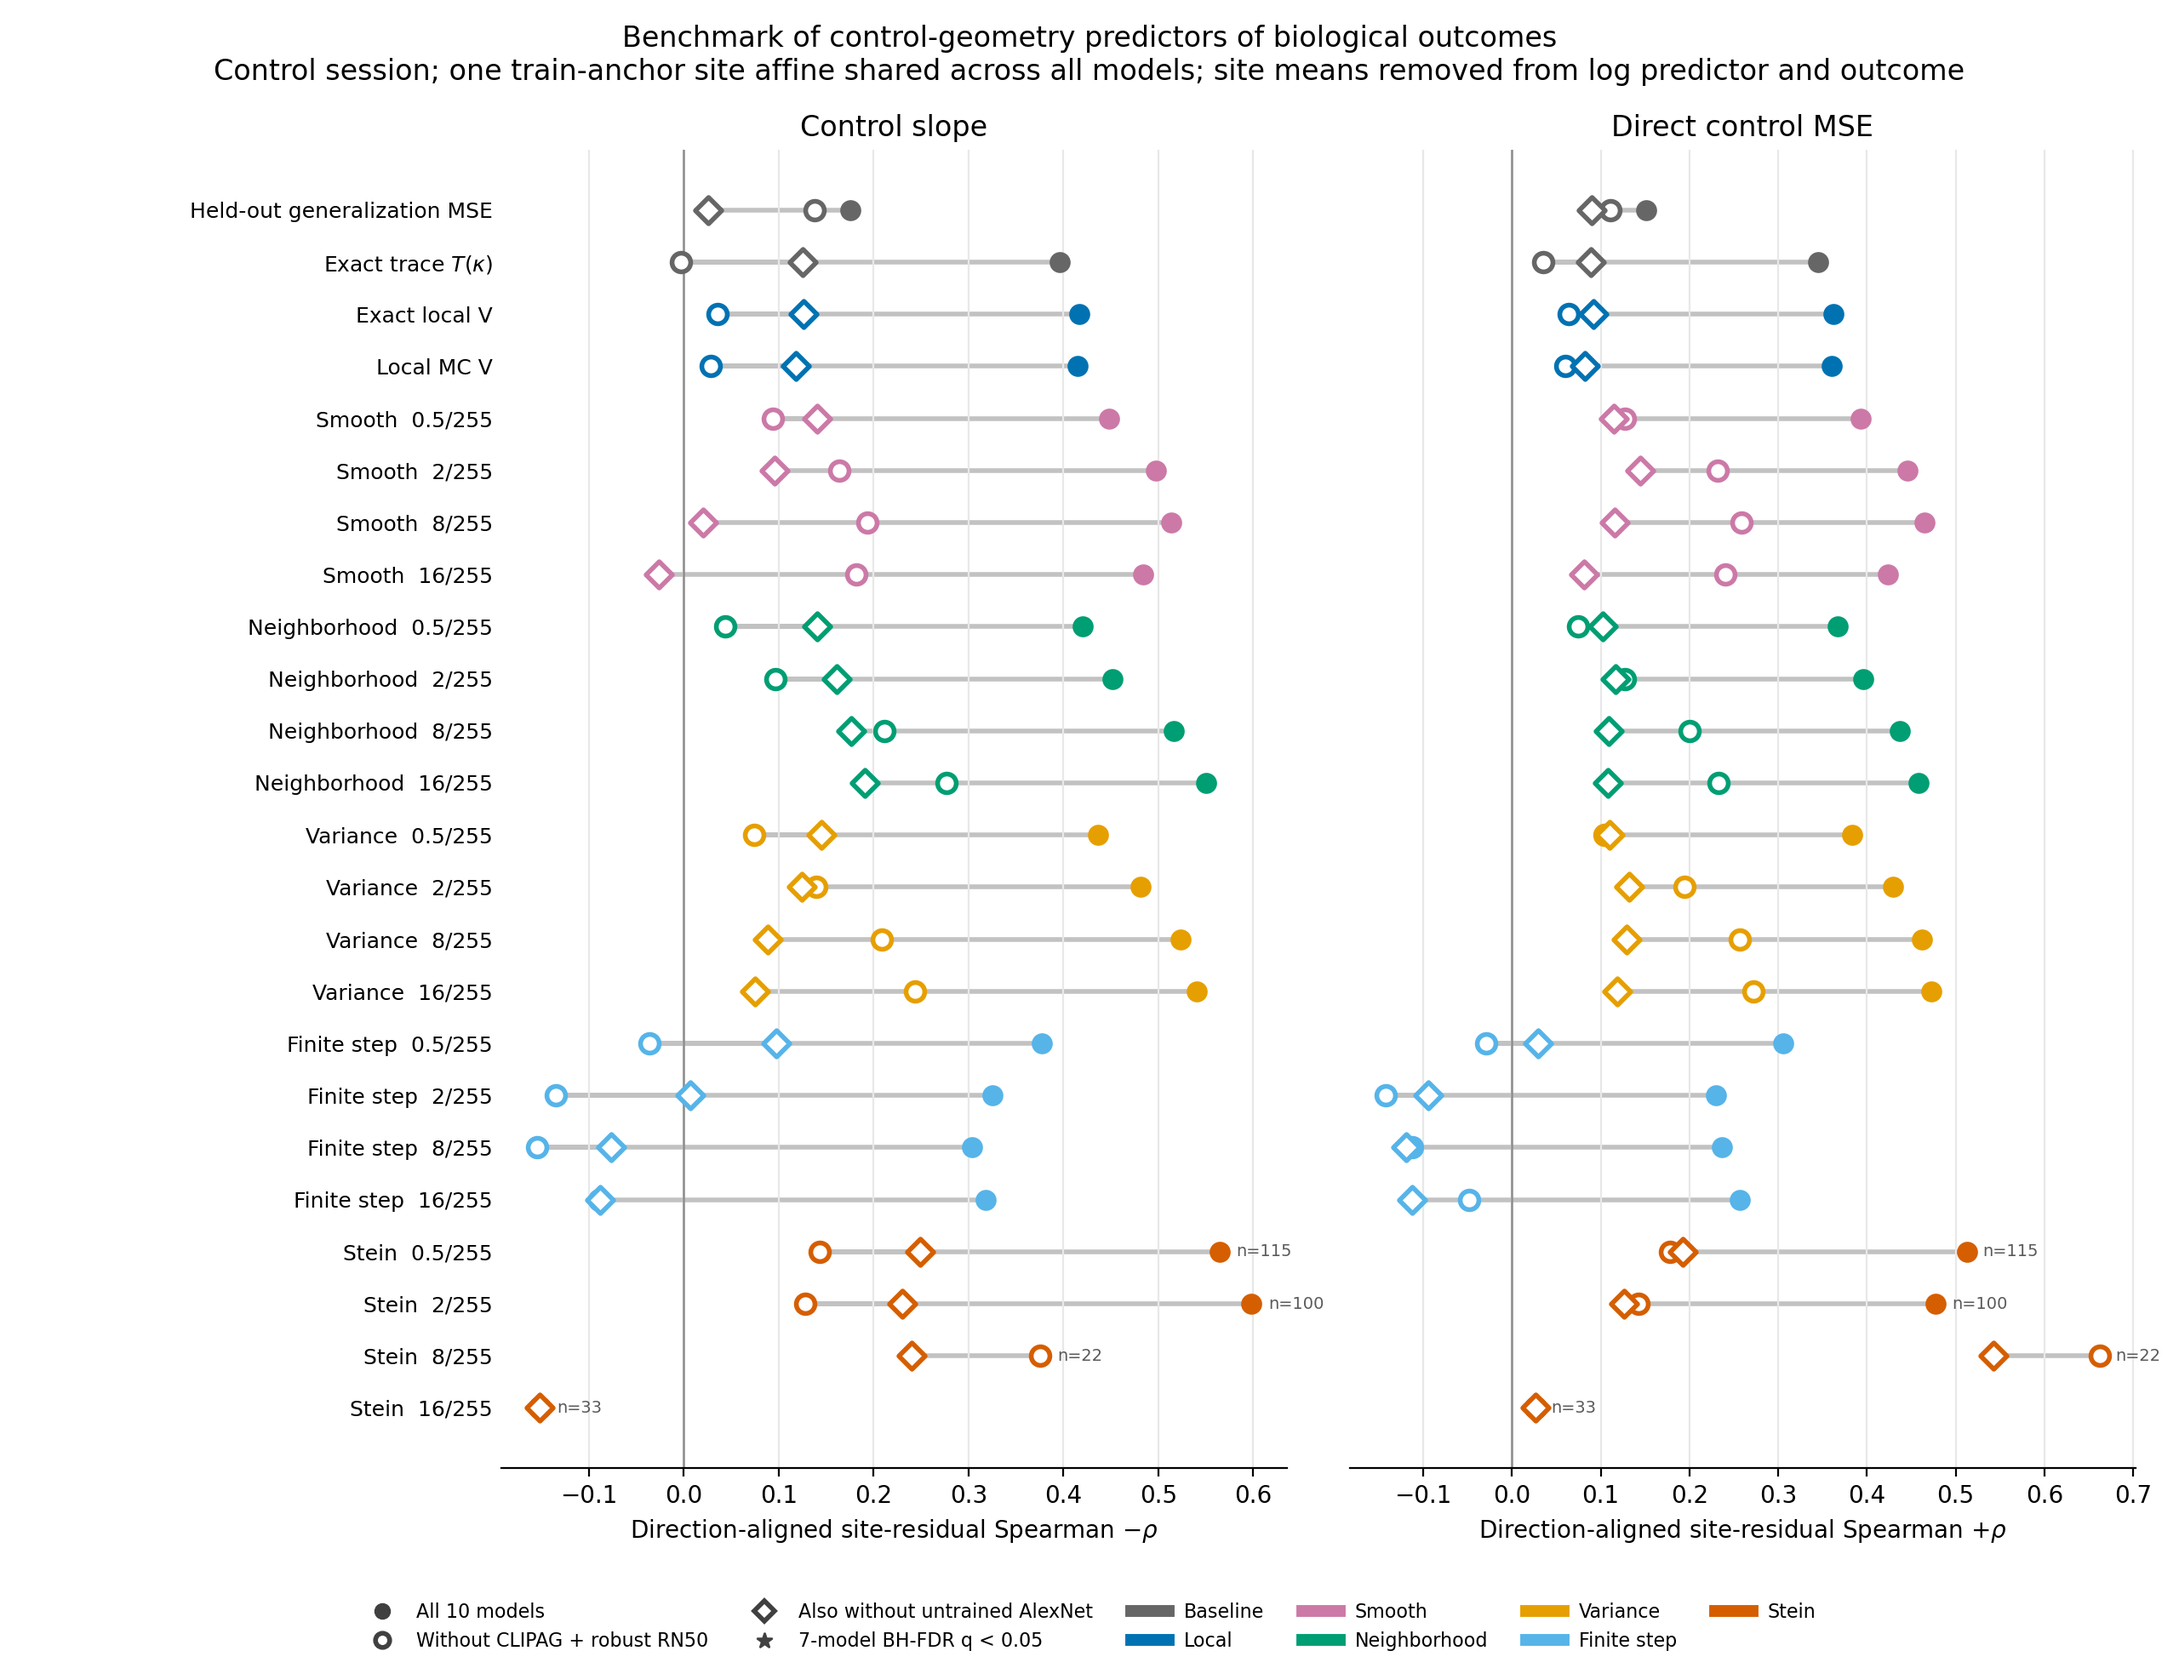
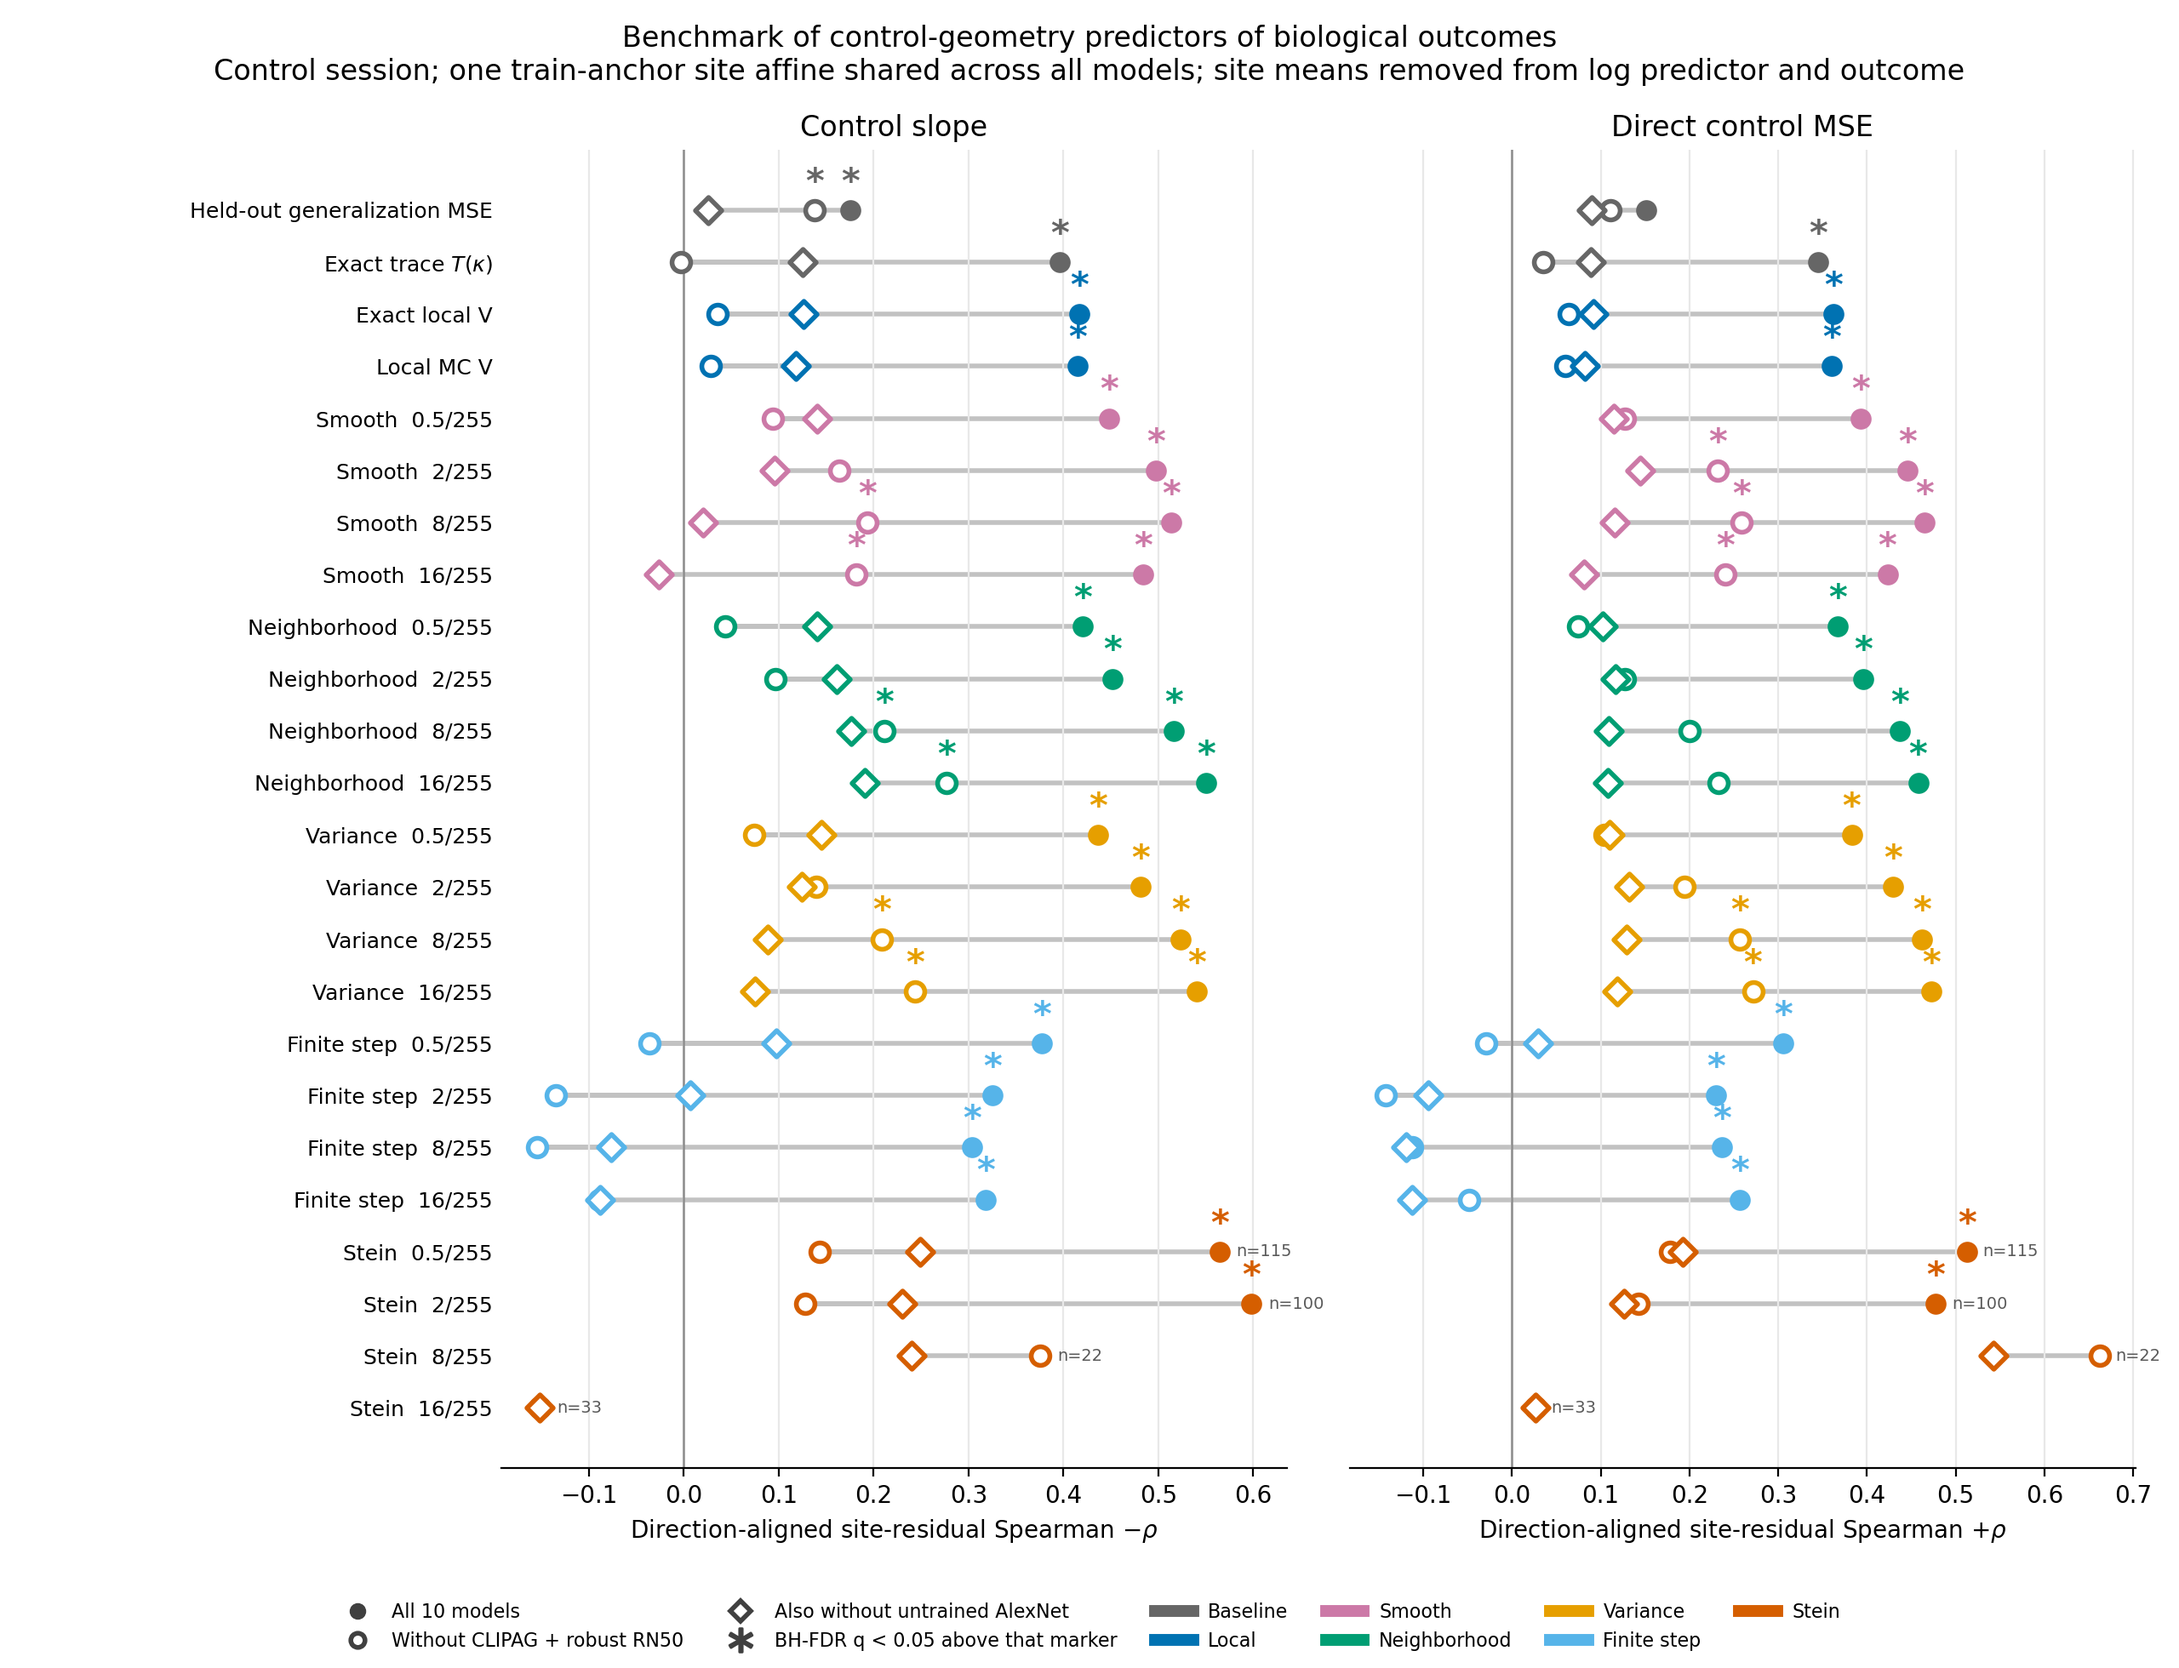
Mark benchmark significance for each model subset

Changed region(s): [[0.1562, 0.9648, 0.7812, 0.9959], [0.8125, 0.9648, 0.8438, 0.9959]]

diff --git a/explorations/nonlinear_control/analyze_site_centered_effects.py b/explorations/nonlinear_control/analyze_site_centered_effects.py
@@ -170,9 +170,15 @@ def predictor_benchmark_plot(results,endpoint,filename):
             ax.scatter(xa,yi,s=62,color=color,edgecolor=color,zorder=3)
             ax.scatter(xr,yi,s=62,facecolor='white',edgecolor=color,lw=2,zorder=4)
             ax.scatter(xt,yi,s=62,marker='D',facecolor='white',edgecolor=color,lw=2,zorder=5)
+            # Mark significance separately for each model subset. A star sits
+            # directly above the marker whose clustered linear effect survives
+            # BH correction within this endpoint/outcome/subset panel.
+            for xvalue,subset in [(xa,'all_models'),(xr,'without_robust'),
+                                  (xt,'without_robust_and_untrained')]:
+                if pair.loc[subset,'cluster_q_bh'] < .05:
+                    ax.text(xvalue,yi+.20,'*',color=color,ha='center',va='bottom',
+                            fontsize=15,fontweight='bold',zorder=6)
             conventional=pair.loc['without_robust_and_untrained']
-            if conventional.cluster_q_bh < .05:
-                ax.text(xt,yi+.22,'★',color=color,ha='center',va='bottom',fontsize=10)
             if conventional.n < 175:
                 ax.text(max(xa,xr,xt)+.018,yi,f"n={int(conventional.n)}",color='.35',
                         va='center',fontsize=7)
@@ -188,7 +194,8 @@ def predictor_benchmark_plot(results,endpoint,filename):
                         color='.25',label='Without CLIPAG + robust RN50'),
              plt.Line2D([],[],marker='D',linestyle='',markerfacecolor='white',markeredgewidth=2,
                         color='.25',label='Also without untrained AlexNet'),
-             plt.Line2D([],[],marker='$★$',linestyle='',color='.25',label='7-model BH-FDR q < 0.05')]
+             plt.Line2D([],[],marker='$*$',linestyle='',color='.25',markersize=10,
+                        label='BH-FDR q < 0.05 above that marker')]
     group_handles=[plt.Line2D([],[],color=METHOD_COLORS[g],lw=5,label=l) for g,l in
                    [('baseline','Baseline'),('local','Local'),('smooth','Smooth'),
                     ('neighborhood','Neighborhood'),('variance','Variance'),

diff --git a/tables/nonlinear_control/biological_validation/PREDICTOR_BENCHMARK.md b/tables/nonlinear_control/biological_validation/PREDICTOR_BENCHMARK.md
@@ -30,9 +30,9 @@ Each endpoint benchmark contains 24 predictors:
 The figures show Spearman correlation because model rankings are the primary
 question and the predictors span very different scales. The CSV also stores
 Pearson correlation and a linear standardized coefficient with site-clustered
-standard error. Stars mark Benjamini-Hochberg q < 0.05 for that clustered
-linear coefficient in the strict seven-model subset. They do not represent a
-clustered significance test of Spearman correlation.
+standard error. A star directly above any filled circle, open circle or open
+diamond marks Benjamini-Hochberg q < 0.05 for that marker's model subset. It
+does not represent a clustered significance test of Spearman correlation.
 
 The Stein estimates at large noise can be zero or negative and therefore
 cannot enter the log analysis. Their actual effective sample sizes are printed
